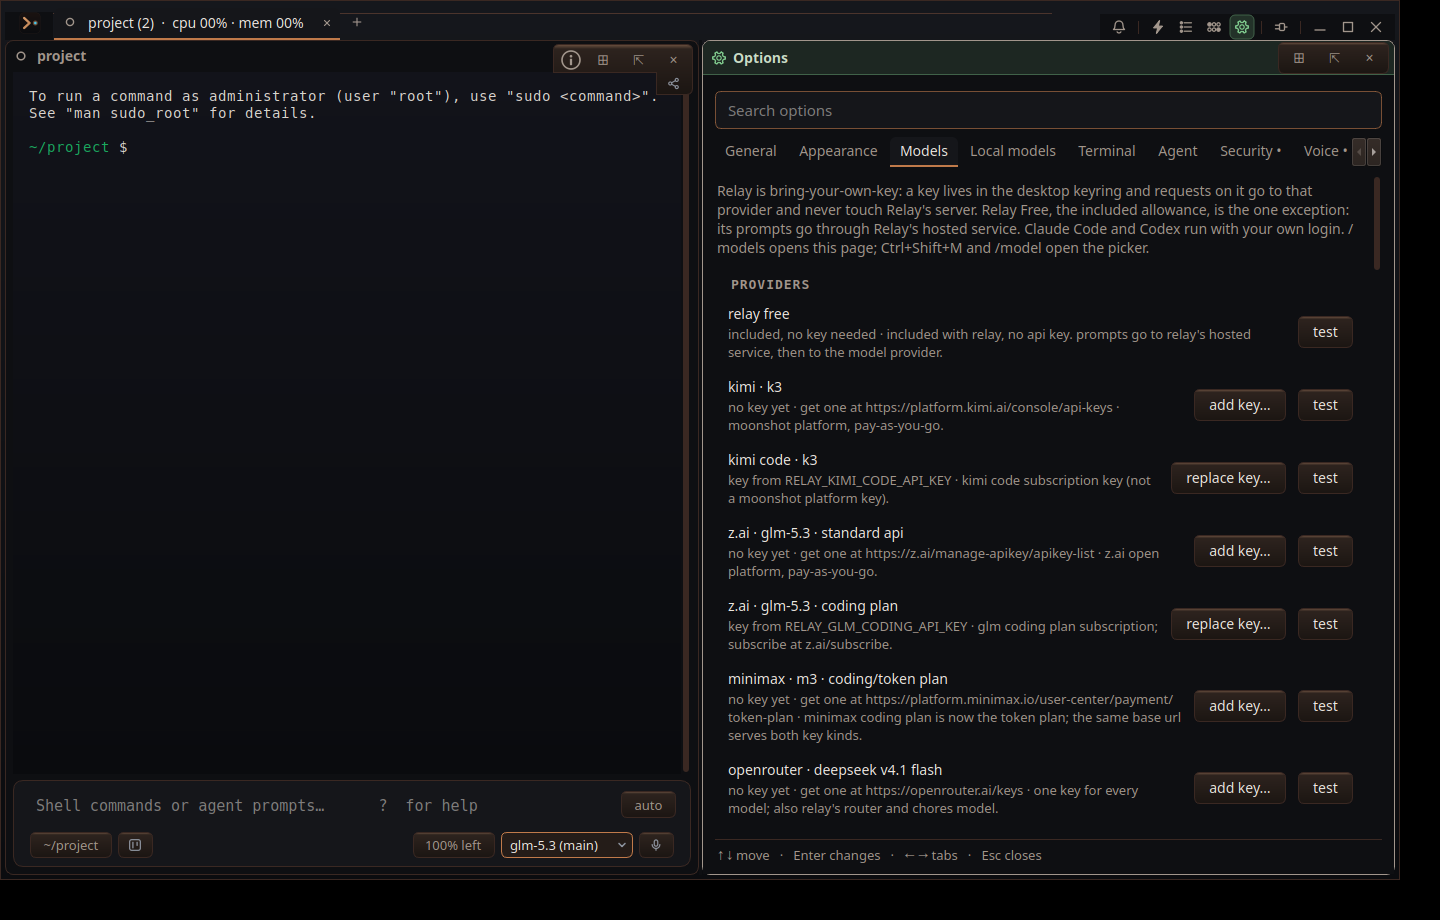
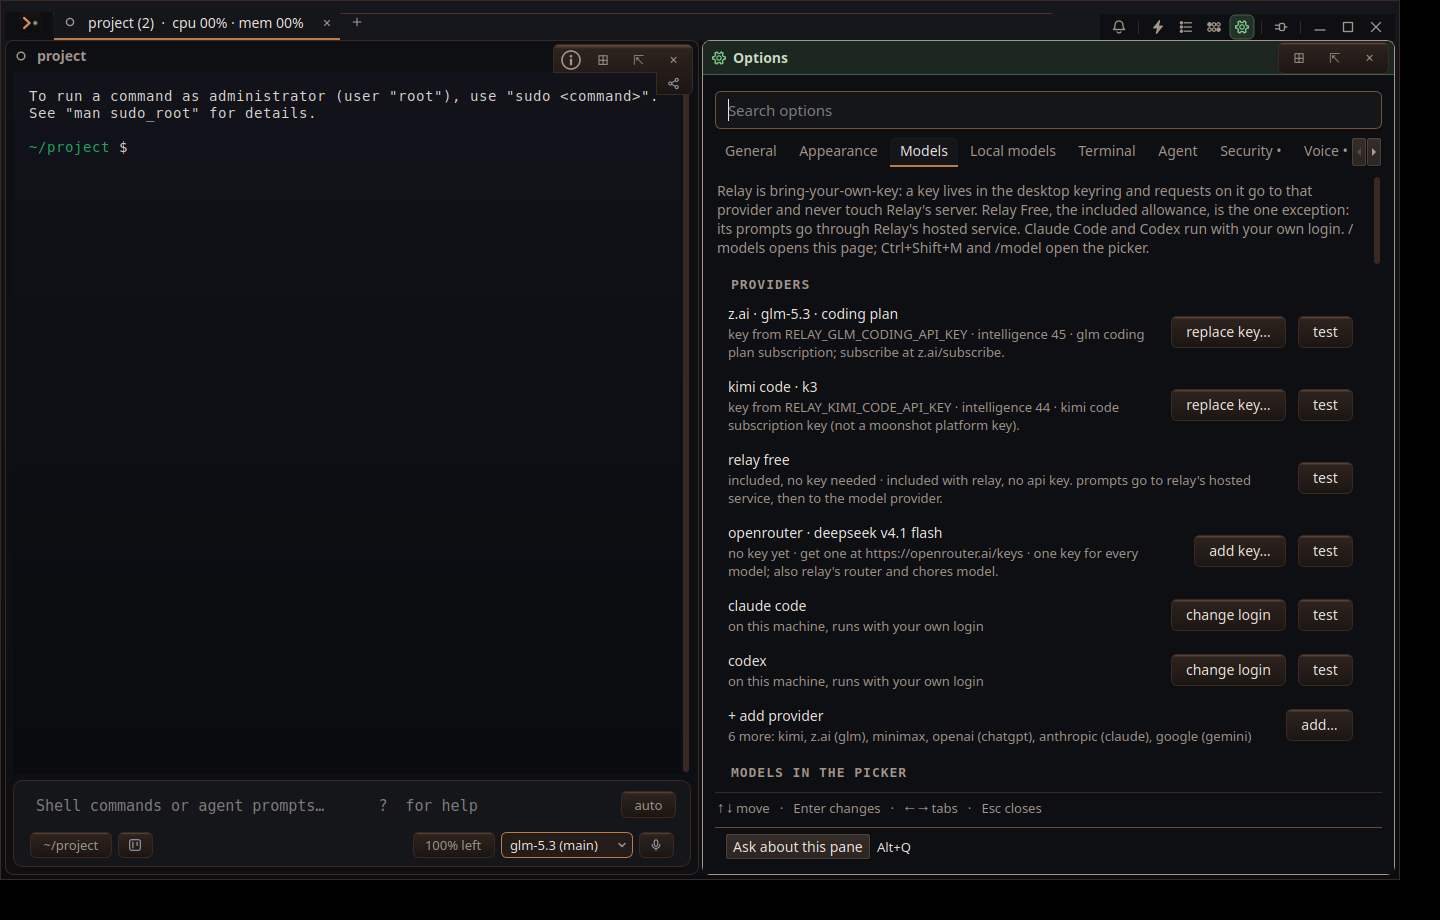
Options › Models: only the providers you can use, ordered by intelligence; the rest behind '+ add provider' (owner, 2026-09-20)
Listed: a stored key, Relay Free, Claude Code and Codex on this machine, and OpenRouter always
(the key the fallbacks and Lite lean on), best catalog score first. Claude Code and Codex get the
same row shape as a keyed provider — 'change login' runs the CLI's own sign-in in the pane's
terminal, 'test' sends test_key — and say whether the CLI is logged in once the worker reports it.
'+ add provider' lists the others with their key page and goes straight to the key box.

Changed region(s): [[0.5, 0.5783, 0.9375, 0.9435], [0.5, 0.3348, 0.9062, 0.5478], [0.8125, 0.4261, 0.875, 0.4565]]

diff --git a/src/RelayWindow.h b/src/RelayWindow.h
@@ -1961,6 +1961,11 @@ private:
         auto str = [](const QJsonObject &object, const char *field) { return object.value(QLatin1String(field)).toString(); };
 
         // ----- 1. providers ---------------------------------------------------------------------
+        // Owner (2026-09-20): only the providers you can use are listed — a key stored, Relay Free,
+        // Claude Code and Codex on this machine — plus OpenRouter always, because it is the one key
+        // the fallbacks and the Lite tier lean on. The rest wait behind "+ add provider". Listed
+        // providers are ordered by intelligence, the best of their catalog models first; those with
+        // no score keep the worker's order after them.
         models.rows << headingRow(QStringLiteral("providers"));
         if (presets.isEmpty()) {
             relay::SettingRow none;
@@ -1969,27 +1974,58 @@ private:
             none.label = QStringLiteral("The agent worker has not answered yet. This page fills in once a pane's agent is up.");
             models.rows << none;
         }
+        auto providerIntelligence = [&catalog](const QString &id) {
+            int best = -1;
+            for (const relay::models::Entry &entry : catalog.ofPreset(id)) best = qMax(best, entry.intelligence);
+            return best;
+        };
+        // The add-key flow, shared by the listed rows and "+ add provider".
+        auto askForKey = [this](const QString &id, const QString &label) {
+            if (!m_active) return;
+            bool ok = false;
+            // Password echo: the key is never rendered and never leaves this call.
+            const QString key = QInputDialog::getText(this, QStringLiteral("API key"),
+                QStringLiteral("Key for %1.\nIt is saved to the desktop keyring and sent only to this provider.").arg(label),
+                QLineEdit::Password, QString(), &ok).trimmed();
+            if (!ok || key.isEmpty()) return;
+            if (key.contains(QRegularExpression(QStringLiteral("\\s")))) {
+                QMessageBox::warning(this, QStringLiteral("API key"), QStringLiteral("An API key cannot contain spaces."));
+                return;
+            }
+            m_active->storeKey(id, key);
+        };
+        QList<QJsonObject> listed, waiting;
         for (const auto &value : presets) {
             const QJsonObject preset = value.toObject();
             const QString id = str(preset, "id");
             if (id.isEmpty() || preset.value(QStringLiteral("local")).toBool()) continue;   // Options › Local models
+            const bool guest = id.startsWith(QStringLiteral("guest:"));
+            const bool usable = preset.value(QStringLiteral("has_stored_key")).toBool()
+                || (preset.value(QStringLiteral("hosted")).toBool() && preset.value(QStringLiteral("available")).toBool())
+                || (guest && preset.value(QStringLiteral("installed")).toBool(true));
+            (usable || id == QStringLiteral("openrouter") ? listed : waiting) << preset;
+        }
+        std::stable_sort(listed.begin(), listed.end(), [&](const QJsonObject &a, const QJsonObject &b) {
+            return providerIntelligence(str(a, "id")) > providerIntelligence(str(b, "id"));
+        });
+        for (const QJsonObject &preset : std::as_const(listed)) {
+            const QString id = str(preset, "id");
             const QString label = str(preset, "label").toLower();
             const bool hosted = preset.value(QStringLiteral("hosted")).toBool();
             const bool guest = id.startsWith(QStringLiteral("guest:"));
             const QString source = str(preset, "key_source");
             const bool hasKey = preset.value(QStringLiteral("has_stored_key")).toBool();
             const QString limits = relay::models::limitsText(catalog.limits.value(id), now);
+            const int score = providerIntelligence(id);
             QString status;
             if (hosted) {
                 status = preset.value(QStringLiteral("available")).toBool()
-                    ? QStringLiteral("included, no key needed") + (limits.isEmpty() ? QString() : QStringLiteral(" · ") + limits)
-                    : QStringLiteral("needs python3-cryptography");
+                    ? QStringLiteral("included, no key needed") : QStringLiteral("needs python3-cryptography");
             } else if (guest) {
-                status = !preset.value(QStringLiteral("installed")).toBool(true)
-                    ? QStringLiteral("not installed: no `%1` on PATH").arg(id.mid(6))
-                    : preset.value(QStringLiteral("harness")).toBool()
-                    ? QStringLiteral("on this machine, runs with your own login") + (limits.isEmpty() ? QString() : QStringLiteral(" · ") + limits)
-                    : QStringLiteral("on this machine; runs as a program in the pane's terminal");
+                const QJsonValue loggedIn = preset.value(QStringLiteral("logged_in"));
+                status = loggedIn.isBool() ? (loggedIn.toBool() ? QStringLiteral("logged in on this machine")
+                                                                : QStringLiteral("not logged in: change login runs the CLI's own sign-in"))
+                                           : QStringLiteral("on this machine, runs with your own login");
             } else if (source == QStringLiteral("env")) {
                 status = QStringLiteral("key from RELAY_%1_API_KEY").arg(id.toUpper().replace(QLatin1Char('-'), QLatin1Char('_')));
             } else if (hasKey) {
@@ -1997,55 +2033,66 @@ private:
             } else {
                 status = QStringLiteral("no key yet · get one at %1").arg(str(preset, "key_url"));
             }
+            if (!limits.isEmpty()) status += QStringLiteral(" · ") + limits;
+            if (score >= 0) status += QStringLiteral(" · intelligence %1").arg(score);
             if (!str(preset, "note").isEmpty()) status += QStringLiteral(" · ") + str(preset, "note").toLower();
             relay::SettingRow row;
+            row.kind = relay::SettingRow::Buttons;
             row.id = QStringLiteral("provider:") + id;
             row.label = label;
             row.detail = status;
-            row.aliases = QStringLiteral("provider key api keyring ") + id + QLatin1Char(' ') + str(preset, "provider").toLower();
-            if (hosted || guest) {
-                // Nothing to add or remove; Relay Free's Test makes one real call.
-                if (hosted && preset.value(QStringLiteral("available")).toBool()) {
-                    row.kind = relay::SettingRow::Buttons;
-                    row.buttonTexts = QStringList{QStringLiteral("test")};
-                    row.agentSafeButtons = QList<int>{0};   // testing a key is reversible (#FEJQ, decision 2)
+            row.aliases = QStringLiteral("provider key api keyring login ") + id + QLatin1Char(' ') + str(preset, "provider").toLower();
+            if (hosted) {
+                if (!preset.value(QStringLiteral("available")).toBool()) { row.kind = relay::SettingRow::Info; row.label = label + QStringLiteral(" · ") + status; }
+                else {
+                    row.buttonTexts = QStringList{QStringLiteral("test")};   // one real call
                     row.onButton = [this, id](int) { if (m_active) m_active->testKey(id); };
-                } else {
-                    row.kind = relay::SettingRow::Info;
-                    row.label = label + QStringLiteral(" · ") + status;
                 }
-            } else {
-                row.kind = relay::SettingRow::Buttons;
-                // The row stands for a key the keyring holds, so it is marked as such (#FEJQ,
-                // §30.2): the agent may say where it is and test it, and may neither read it nor
-                // press the buttons that add, replace or remove it (owner decisions 1 and 2).
-                row.secret = true;
-                row.buttonTexts = QStringList{hasKey ? QStringLiteral("replace key…") : QStringLiteral("add key…"), QStringLiteral("test")};
-                row.agentSafeButtons = QList<int>{1};
-                if (source == QStringLiteral("keyring")) row.buttonTexts << QStringLiteral("remove");
-                row.onButton = [this, id, label](int index) {
+            } else if (guest) {
+                // The same two buttons as a keyed provider, in the guest's words: its login is its
+                // key. The CLI's own sign-in runs in the pane's terminal; test runs one turn.
+                const QString cli = id.mid(6);
+                const QString login = cli == QStringLiteral("claude") ? QStringLiteral("claude auth login") : cli + QStringLiteral(" login");
+                row.buttonTexts = QStringList{QStringLiteral("change login"), QStringLiteral("test")};
+                row.onButton = [this, id, login](int index) {
                     if (!m_active) return;
-                    if (index == 0) {
-                        bool ok = false;
-                        // Password echo: the key is never rendered and never leaves this call.
-                        const QString key = QInputDialog::getText(this, QStringLiteral("API key"),
-                            QStringLiteral("Key for %1.\nIt is saved to the desktop keyring and sent only to this provider.").arg(label),
-                            QLineEdit::Password, QString(), &ok).trimmed();
-                        if (!ok || key.isEmpty()) return;
-                        if (key.contains(QRegularExpression(QStringLiteral("\\s")))) {
-                            QMessageBox::warning(this, QStringLiteral("API key"), QStringLiteral("An API key cannot contain spaces."));
-                            return;
-                        }
-                        m_active->storeKey(id, key);
-                    } else if (index == 1) {
-                        m_active->testKey(id);
-                    } else if (QMessageBox::question(this, QStringLiteral("Remove key"),
-                                   QStringLiteral("Remove the stored key for %1 from the keyring?").arg(label)) == QMessageBox::Yes) {
+                    if (index == 0) m_active->runLoginCommand(login);
+                    else m_active->testKey(id);
+                };
+            } else {
+                row.buttonTexts = QStringList{hasKey ? QStringLiteral("replace key…") : QStringLiteral("add key…"), QStringLiteral("test")};
+                if (source == QStringLiteral("keyring")) row.buttonTexts << QStringLiteral("remove");
+                row.onButton = [this, id, label, askForKey](int index) {
+                    if (!m_active) return;
+                    if (index == 0) askForKey(id, label);
+                    else if (index == 1) m_active->testKey(id);
+                    else if (QMessageBox::question(this, QStringLiteral("Remove key"),
+                                 QStringLiteral("Remove the stored key for %1 from the keyring?").arg(label)) == QMessageBox::Yes)
                         m_active->removeKey(id);
-                    }
                 };
             }
             models.rows << row;
+        }
+        if (!waiting.isEmpty()) {
+            // The providers without a key, one pick away: the picker lists them with where a key
+            // comes from, and the pick goes straight to the key box.
+            models.rows << buttonRow(QStringLiteral("models.addProvider"), QStringLiteral("+ add provider"),
+                QStringLiteral("%1 more: %2").arg(waiting.size()).arg([&] {
+                    QStringList names; for (const QJsonObject &preset : std::as_const(waiting)) names << str(preset, "provider").toLower();
+                    names.removeDuplicates(); return names.join(QStringLiteral(", ")); }()),
+                QStringLiteral("add…"), [this, waiting, askForKey, str] {
+                    QList<relay::agentui::PickerRow> rows;
+                    for (const QJsonObject &preset : waiting)
+                        rows << relay::agentui::PickerRow{{str(preset, "label").toLower(), str(preset, "plan").toLower(), str(preset, "key_url")},
+                                                          str(preset, "note"), str(preset, "id")};
+                    const auto result = relay::agentui::pick(this, QStringLiteral("add provider"),
+                        QStringLiteral("Pick a provider; the next step asks for its key."),
+                        {QStringLiteral("provider"), QStringLiteral("plan"), QStringLiteral("key page")}, rows,
+                        {{QStringLiteral("add"), QStringLiteral("add key…"), true}});
+                    if (result.row < 0) return;
+                    const QJsonObject preset = waiting.at(result.row);
+                    askForKey(str(preset, "id"), str(preset, "label").toLower());
+                });
         }
 
         // ----- 2. which models the picker shows -------------------------------------------------

diff --git a/src/Pane.h b/src/Pane.h
@@ -774,6 +774,9 @@ public:
     void storeKey(const QString &preset, const QString &key) { send({{"type", "store_key"}, {"preset", preset}, {"api_key", key}}); }
     void testKey(const QString &preset) { send({{"type", "test_key"}, {"preset", preset}}); }
     void removeKey(const QString &preset) { send({{"type", "remove_key"}, {"preset", preset}}); }
+    // Options › Models › "change login" on Claude Code or Codex: the CLI's own login runs in this
+    // pane's terminal, where it can open a browser and ask what it asks.
+    void runLoginCommand(const QString &command) { submitTerminal(command, true); }
     // Options › Models changed what the picker shows or in what order: every box re-reads it.
     void modelsCurationChanged() { rememberFallback(modelCatalog()); refreshPickers(); }
     // Rank 2 of the priority list, kept in QSettings so requestOptions (static, read for every

diff --git a/docs/qa_evidence/2026-09-20-models-page-and-picker/NOTES.md b/docs/qa_evidence/2026-09-20-models-page-and-picker/NOTES.md
@@ -9,7 +9,7 @@ no prompt is ever submitted. `drive.sh [build-dir]` reproduces every shot.
 | implementer-b-picker.png | Ctrl+Shift+M: the picker — filter, sort menu (priority), columns model · provider · reasoning · intelligence · tok/s · left; the current row bold and selected; the reasoning buttons (low · high · max) for it; ☆ favorite, customize…, use, cancel |
 | implementer-c-picker-filter.png | `flash` typed: one flat list of the two matching rows, the first selected |
 | implementer-d-picker-sort.png | the sort menu open (priority, a to z, intelligence, speed, most used, subscription left) |
-| implementer-e-options.png | `/models`: Options › Models — the providers group with status and add key… / replace key… / test |
+| implementer-e-options.png | `/models`: Options › Models — the providers group: only providers with a key (ordered by intelligence), Relay Free, OpenRouter always, Claude Code and Codex with `change login` / `test`; the rest behind `+ add provider` |
 | implementer-g-options-checklist.png | the checklist group: `relay free` and `kimi code · k3` with one toggle per model, and under `k3` the unchecked per-model switch "↳ when it fails, continue on openrouter's moonshotai/kimi-k3" (owner: off by default, on per model) |
 | implementer-f-options-down.png | the same page at the end of the priority list (↑ ↓ per row, reset) and the defaults group |
 
